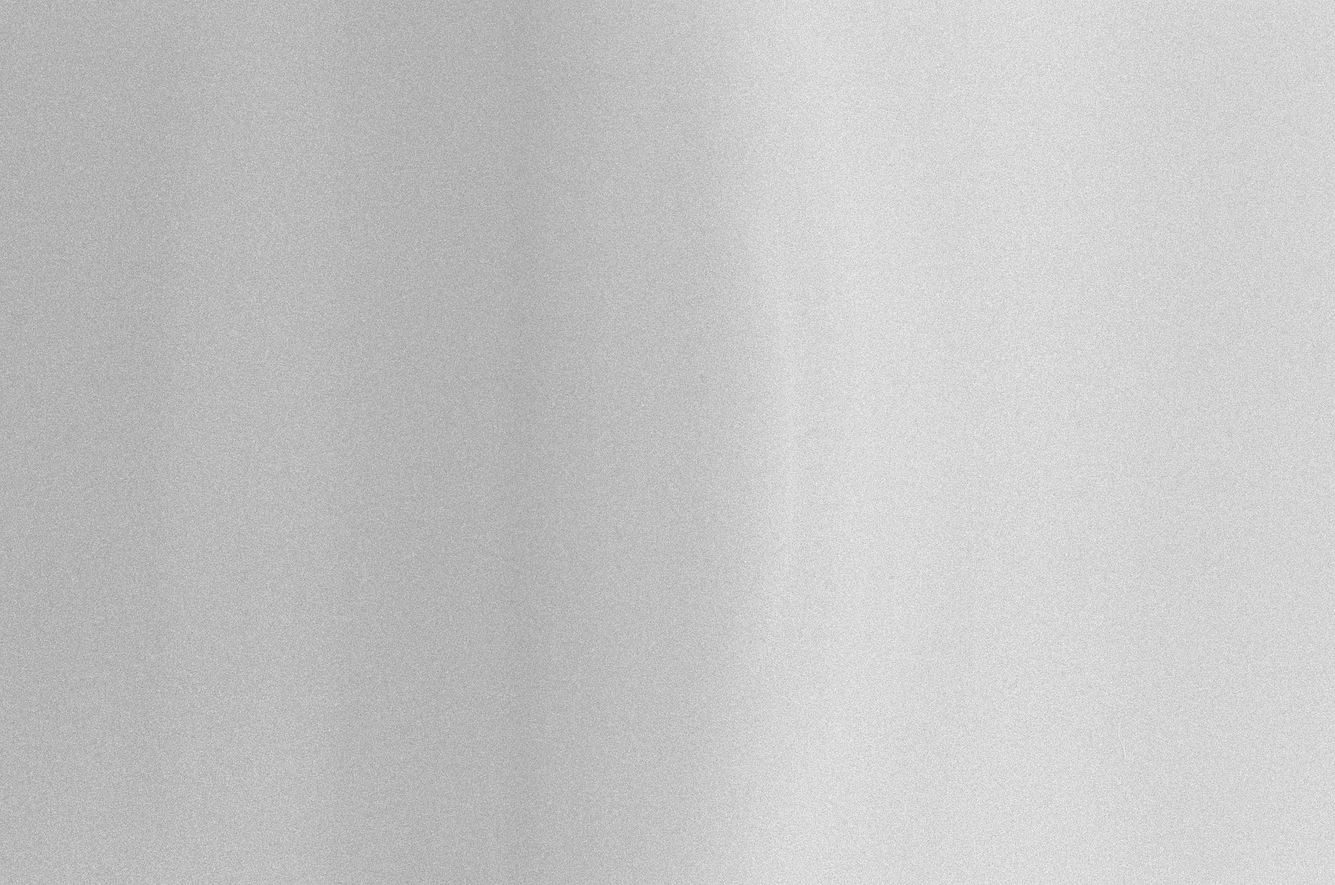
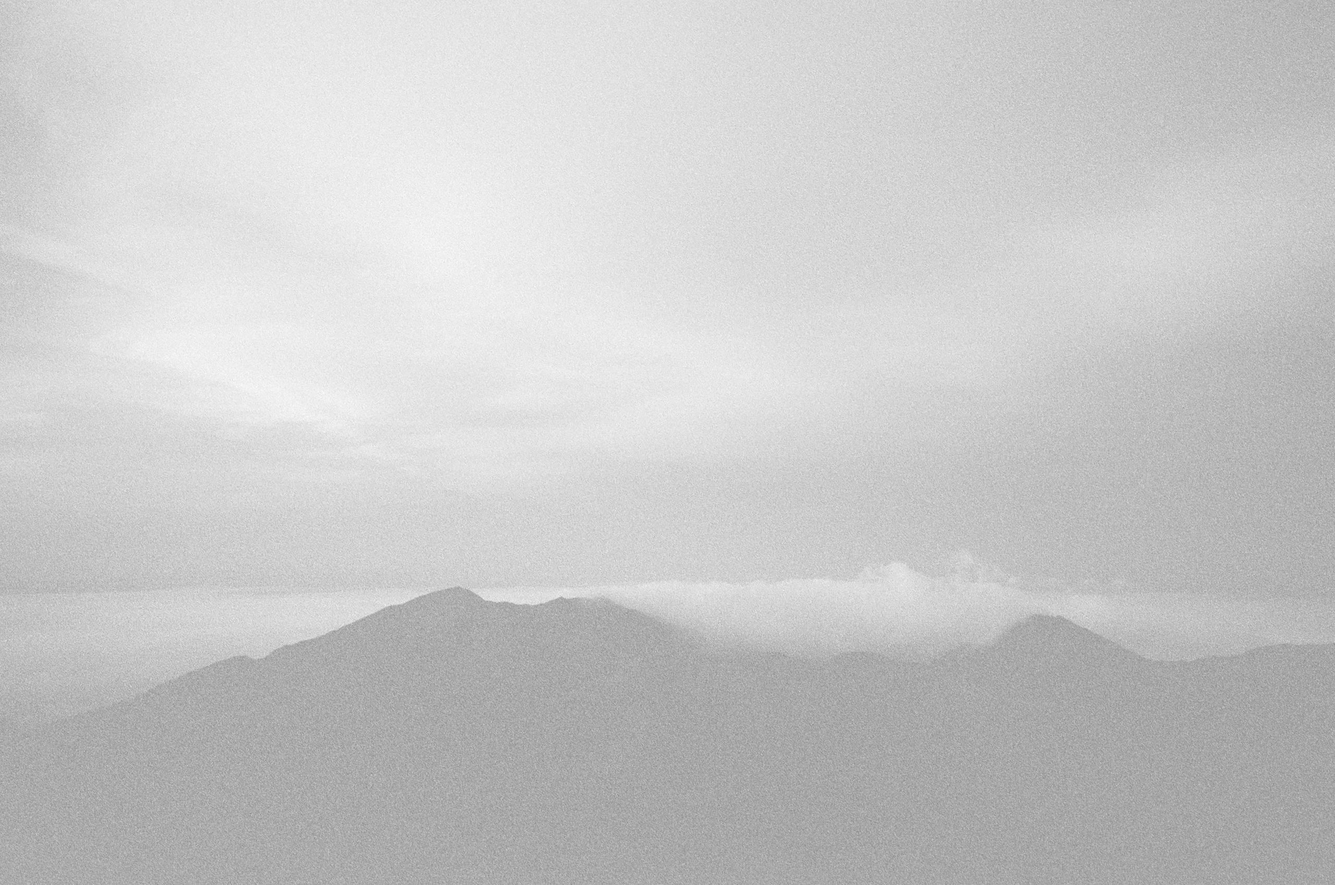
feat: use the mountain photos as the site backgrounds
Replace the film-grain backgrounds with the uploaded misty-ridge pair:
the white version becomes background-light.jpg and the dark version
background-dark.jpg. Both are pure grayscale, so re-encode them as
single-channel JPEGs at 2560x1697, quality 78, progressive (1.1 MB ->
0.6 MB each, no visible banding in the night sky), and remove the
mountain-named uploads.

Anchor the crop at 35% horizontally so phones and portrait tablets, which
only see a narrow strip of the picture, keep the main peak in view. Wide
screens show the full width either way.

Claude-Session: https://claude.ai/code/session_01XjAYhdnag3CooAhbWUTNAj

diff --git a/index.html b/index.html
@@ -65,7 +65,9 @@
             position: fixed;
             inset: 0;
             z-index: -1;
-            background: var(--background-image) center / cover no-repeat;
+            /* 35% across keeps the mountain's main peak in view on narrow
+               screens; wide screens show the picture's full width anyway */
+            background: var(--background-image) 35% center / cover no-repeat;
         }
 
         .menu-icon {

diff --git a/CLAUDE.md b/CLAUDE.md
@@ -86,9 +86,14 @@ dark values appear twice: once for the device setting, once for the toggle):
 
 The picture covers the whole window behind every page, fixed in place while
 scrolling (a `position: fixed` layer on `body::before`, since iOS ignores
-`background-attachment: fixed`). It's cropped to fill the screen, so the center
-of the picture is what always shows. If a picture file is missing, that mode
-falls back to its plain color. Pictures load on every visit, so keep them
+`background-attachment: fixed`). It's cropped to fill the screen. Both
+pictures are the same misty mountain ridge (day and night versions, from the
+owner's film scans), with the main peak about a third of the way across; the
+crop is anchored at 35% horizontally so phones and portrait tablets, which only
+see a narrow vertical strip, keep that peak in view. Wide screens show the full
+width and crop top and bottom instead. If you swap in a differently composed
+picture, revisit that 35%. If a picture file is missing, that mode falls back
+to its plain color. Pictures load on every visit, so keep them
 around 2560px wide and ~1 MB or less — film grain compresses poorly, and
 grayscale scans should be saved as single-channel JPEGs.
 
